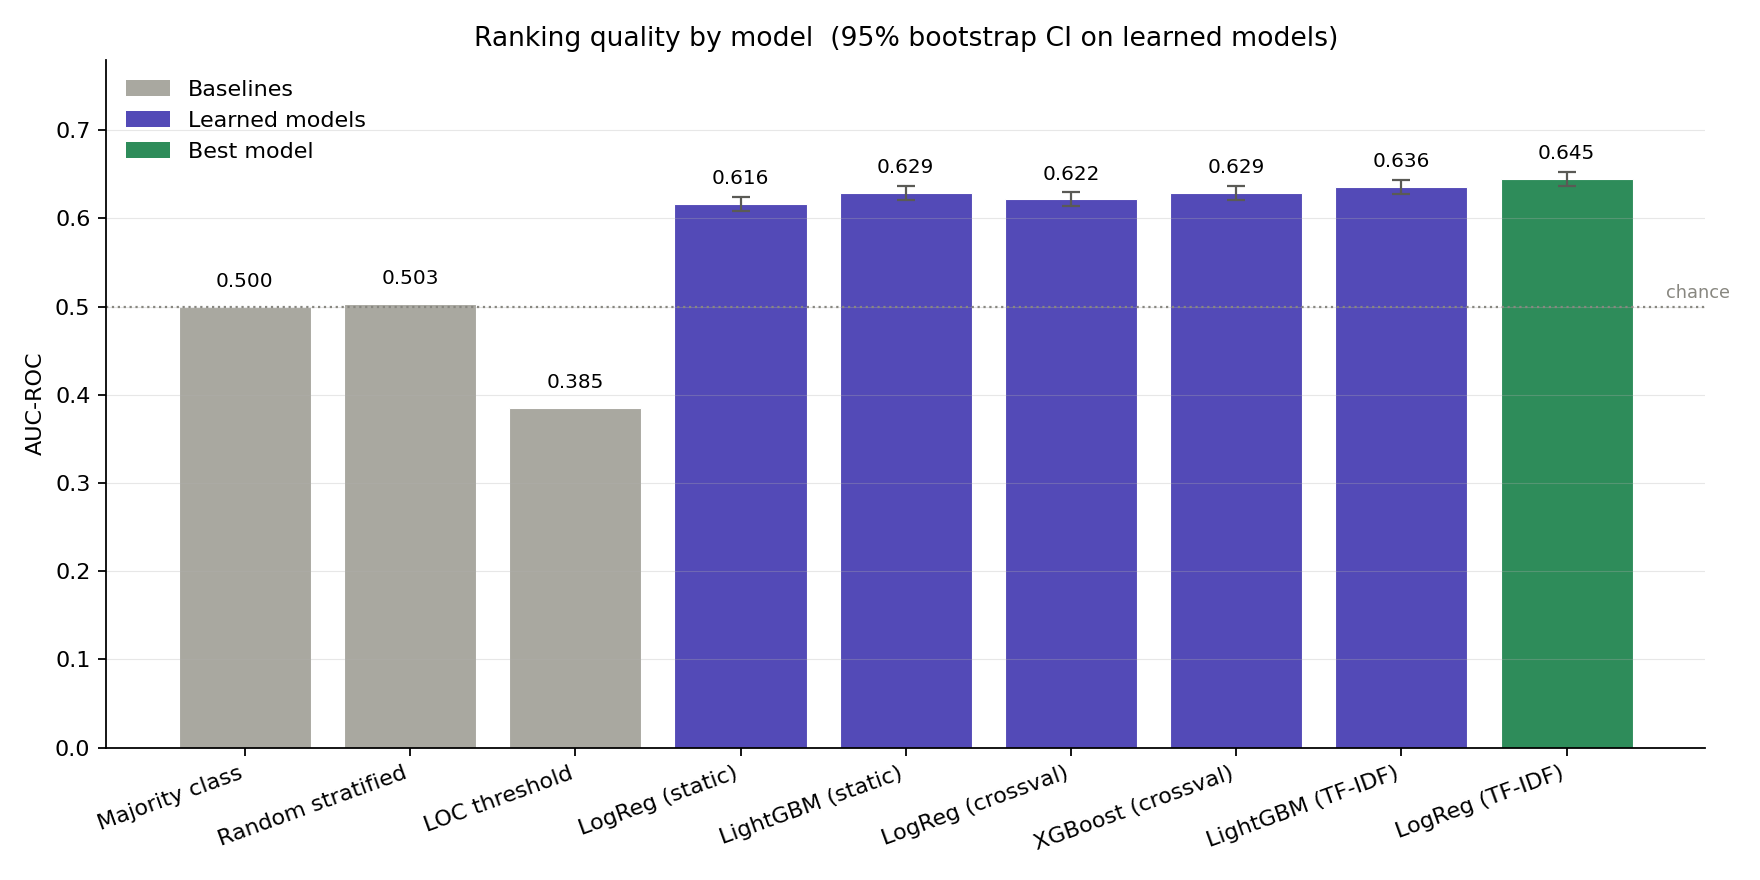
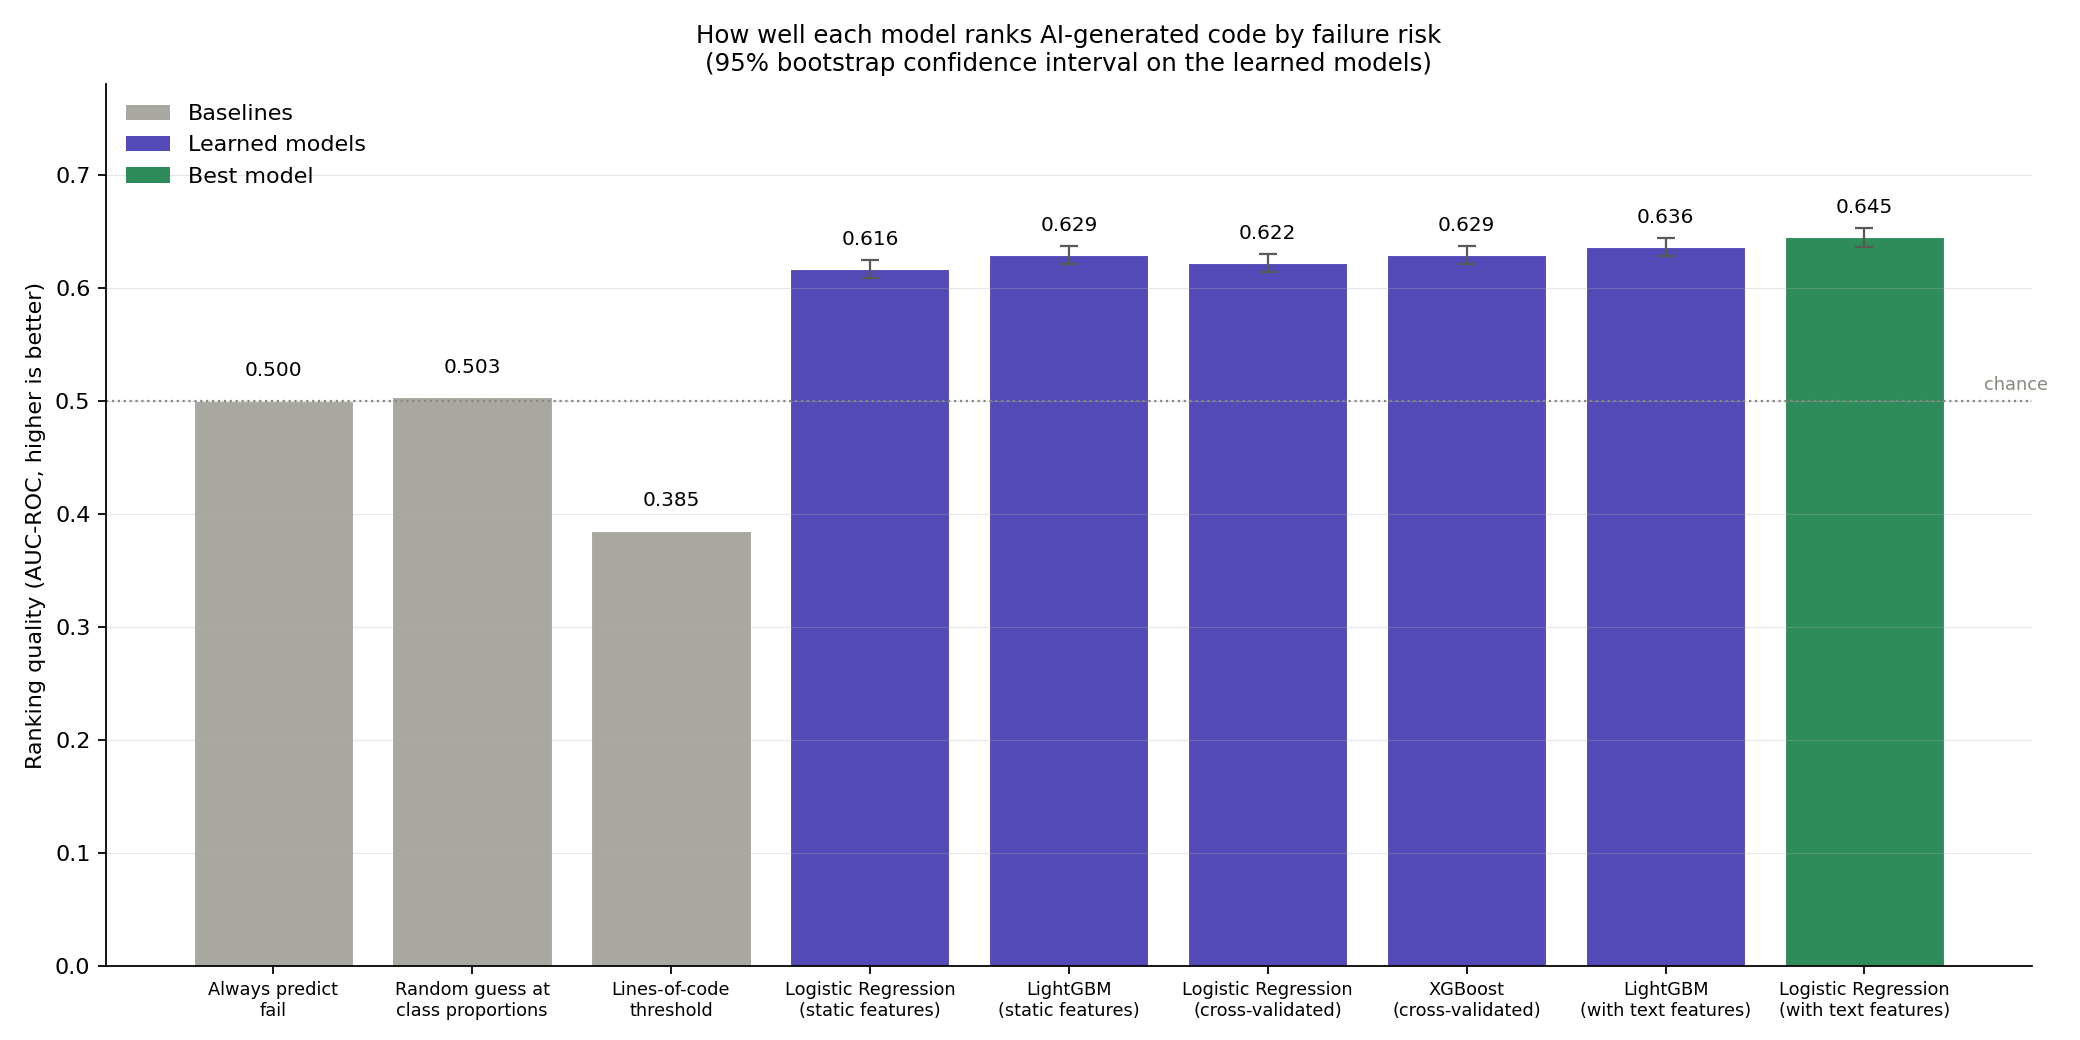
Readme updates and figures

diff --git a/models/build_report_figures.py b/models/build_report_figures.py
@@ -8,6 +8,8 @@ Produces:
                                                 code cross-project range as context.
   report_figures/fig6_shap_importance.png       Static features by mean |SHAP|,
                                                 colored by direction.
+  report_figures/table1_model_results.png       Table 1 rendered as a PNG with the
+                                                same spelled-out labels as Figure 2.
   report_figures/model_metrics_with_ci.csv      AUC and F1 with 95% bootstrap CIs
                                                 for the Table 1 update.
 
@@ -89,12 +91,12 @@ def load_models():
     t_xgb_cv = read_threshold(ROOT / "models/outputs_crossval/threshold_metrics.txt", "XGBoost (crossval)")
 
     rows = [
-        ("LogReg (static)",     "learned", base["label"].values,  base["logreg_prob"].values, (base["logreg_prob"].values >= t_lr_b).astype(int)),
-        ("LightGBM (static)",   "learned", base["label"].values,  base["lgbm_prob"].values,   (base["lgbm_prob"].values   >= t_lgb_b).astype(int)),
-        ("LogReg (crossval)",   "learned", cv["label"].values,    cv["logistic_regression_prob"].values, (cv["logistic_regression_prob"].values >= t_lr_cv).astype(int)),
-        ("XGBoost (crossval)",  "learned", cv["label"].values,    cv["xgboost_prob"].values,             (cv["xgboost_prob"].values             >= t_xgb_cv).astype(int)),
-        ("LightGBM (TF-IDF)",   "learned", tfidf["label"].values, tfidf["lgbm_prob"].values,  (tfidf["lgbm_prob"].values  >= t_lgb_t).astype(int)),
-        ("LogReg (TF-IDF)",     "best",    tfidf["label"].values, tfidf["logreg_prob"].values, (tfidf["logreg_prob"].values >= t_lr_t).astype(int)),
+        ("Logistic Regression\n(static features)",      "learned", base["label"].values,  base["logreg_prob"].values, (base["logreg_prob"].values >= t_lr_b).astype(int)),
+        ("LightGBM\n(static features)",                 "learned", base["label"].values,  base["lgbm_prob"].values,   (base["lgbm_prob"].values   >= t_lgb_b).astype(int)),
+        ("Logistic Regression\n(cross-validated)",      "learned", cv["label"].values,    cv["logistic_regression_prob"].values, (cv["logistic_regression_prob"].values >= t_lr_cv).astype(int)),
+        ("XGBoost\n(cross-validated)",                  "learned", cv["label"].values,    cv["xgboost_prob"].values,             (cv["xgboost_prob"].values             >= t_xgb_cv).astype(int)),
+        ("LightGBM\n(with text features)",              "learned", tfidf["label"].values, tfidf["lgbm_prob"].values,  (tfidf["lgbm_prob"].values  >= t_lgb_t).astype(int)),
+        ("Logistic Regression\n(with text features)",   "best",    tfidf["label"].values, tfidf["logreg_prob"].values, (tfidf["logreg_prob"].values >= t_lr_t).astype(int)),
     ]
     return rows
 
@@ -104,9 +106,9 @@ def load_models():
 def fig_model_comparison(rows, out_path):
     # baselines from metrics.txt are deterministic — point estimates only
     baseline_rows = [
-        ("Majority class", "baseline", 0.500),
-        ("Random stratified", "baseline", 0.503),
-        ("LOC threshold",  "baseline", 0.385),
+        ("Always predict\nfail",                   "baseline", 0.500),
+        ("Random guess at\nclass proportions",     "baseline", 0.503),
+        ("Lines-of-code\nthreshold",               "baseline", 0.385),
     ]
 
     learned = []
@@ -120,7 +122,7 @@ def fig_model_comparison(rows, out_path):
     his     = [None]*3 + [r[4] for r in learned]
     colors  = [GRAY]*3 + [GREEN if r[1] == "best" else PURPLE for r in learned]
 
-    fig, ax = plt.subplots(figsize=(11, 5.5))
+    fig, ax = plt.subplots(figsize=(13, 6.5))
     x = np.arange(len(labels))
     bars = ax.bar(x, means, color=colors, edgecolor="white", linewidth=0.5)
 
@@ -138,11 +140,12 @@ def fig_model_comparison(rows, out_path):
     ax.text(len(labels) - 0.4, 0.51, "chance", color="#888780", fontsize=8)
 
     ax.set_xticks(x)
-    ax.set_xticklabels(labels, rotation=20, ha="right")
+    ax.set_xticklabels(labels, rotation=0, ha="center", fontsize=8)
     ax.set_ylim(0, 0.78)
-    ax.set_ylabel("AUC-ROC")
-    ax.set_title("Ranking quality by model  (95% bootstrap CI on learned models)",
-                 fontweight="normal")
+    ax.set_ylabel("Ranking quality (AUC-ROC, higher is better)")
+    ax.set_title("How well each model ranks AI-generated code by failure risk\n"
+                 "(95% bootstrap confidence interval on the learned models)",
+                 fontweight="normal", fontsize=11)
     ax.grid(True, alpha=0.3, axis="y", linewidth=0.5)
     ax.spines["top"].set_visible(False)
     ax.spines["right"].set_visible(False)
@@ -161,28 +164,41 @@ def fig_model_comparison(rows, out_path):
 
 def fig_crossmodel_drops(out_path):
     df = pd.read_csv(ROOT / "models/outputs_crossmodel/crossmodel_results.csv")
-    df = df.sort_values("auc_drop", ascending=True).reset_index(drop=True)
+    df = df.sort_values("auc_drop", ascending=False).reset_index(drop=True)
+    df["full_pct"] = (df["in_dist_auc"] * 100).round(1)
+    df["loo_pct"]  = (df["ood_auc"]    * 100).round(1)
 
-    fig, ax = plt.subplots(figsize=(9, 4.5))
-    # reference range from Zou et al. (2025) cross-project on human code
-    ax.axvspan(0.05, 0.15, color="#F4D6CC", alpha=0.7, zorder=0)
-    ax.text(0.10, len(df) - 0.4, "Cross-project range on human code\n(Zou et al., 2025)",
-            ha="center", va="top", fontsize=9, color="#7A3318")
+    n = len(df)
+    fig, ax = plt.subplots(figsize=(10, 5.0))
+    bar_h = 0.36
+    y = np.arange(n)
 
-    bars = ax.barh(df["family"], df["auc_drop"], color=GREEN, height=0.6)
-    for i, v in enumerate(df["auc_drop"]):
-        ax.text(v + 0.002, i, f"{v:.3f}", va="center", fontsize=9)
+    ax.barh(y - bar_h/2, df["full_pct"], height=bar_h, color=DARKGRAY,
+            label="Trained with this AI family")
+    ax.barh(y + bar_h/2, df["loo_pct"],  height=bar_h, color=GREEN,
+            label="Trained without this AI family")
 
-    ax.axvline(0, color=DARKGRAY, linewidth=0.8)
-    ax.set_xlim(-0.005, 0.17)
-    ax.set_xlabel("Drop in ranking quality when family is held out of training")
-    ax.set_title("Cross-model generalization: every family loses less than 0.02",
-                 fontweight="normal")
+    for i, row in df.iterrows():
+        ax.text(row["full_pct"] - 0.4, i - bar_h/2, f"{row['full_pct']:.0f}",
+                va="center", ha="right", fontsize=10, color="white", fontweight="bold")
+        ax.text(row["loo_pct"]  - 0.4, i + bar_h/2, f"{row['loo_pct']:.0f}",
+                va="center", ha="right", fontsize=10, color="white", fontweight="bold")
+
+    ax.set_yticks(y)
+    ax.set_yticklabels(df["family"], fontsize=11)
+    ax.invert_yaxis()
+    ax.set_xlim(50, 70)
+    ax.set_xlabel("Pairs of (passing, failing) code ranked correctly, out of 100", fontsize=10)
+    ax.set_title("Removing an AI family from training barely changes accuracy",
+                 fontweight="normal", fontsize=12, loc="left")
     ax.grid(True, alpha=0.3, axis="x", linewidth=0.5)
     ax.spines["top"].set_visible(False)
     ax.spines["right"].set_visible(False)
+    ax.legend(loc="upper right", frameon=False, fontsize=10,
+              bbox_to_anchor=(1.0, 1.02), ncol=2)
+
     fig.tight_layout()
-    fig.savefig(out_path, dpi=160)
+    fig.savefig(out_path, dpi=160, bbox_inches="tight")
     plt.close(fig)
 
 
@@ -197,9 +213,9 @@ def fig_shap_importance(out_path):
         ax.text(v + 0.004, i, f"{v:.3f}", va="center", fontsize=8)
 
     ax.set_xlim(0, df["mean_abs_shap"].max() * 1.15)
-    ax.set_xlabel("Average contribution to a prediction (mean |SHAP|)")
-    ax.set_title("What patterns drive failure predictions",
-                 fontweight="normal")
+    ax.set_xlabel("Average contribution to a prediction (longer bar = pattern matters more)")
+    ax.set_title("Which patterns the model uses most when predicting failure risk",
+                 fontweight="normal", fontsize=11)
     ax.grid(True, alpha=0.3, axis="x", linewidth=0.5)
     ax.spines["top"].set_visible(False)
     ax.spines["right"].set_visible(False)
@@ -211,6 +227,93 @@ def fig_shap_importance(out_path):
 
     fig.tight_layout()
     fig.savefig(out_path, dpi=160)
+    plt.close(fig)
+
+
+# ----- table 1 png ------------------------------------------------------------
+
+def fig_table1(rows, out_path):
+    baselines = [
+        ("Always predict fail",                 "—",                     "0.500", "0.000", "—"),
+        ("Random guess at class proportions",   "—",                     "0.503", "0.413", "—"),
+        ("Lines-of-code threshold",             "Lines of code only",    "0.385", "0.526", "—"),
+    ]
+
+    thresholds = {
+        "Logistic Regression\n(static features)":      "0.36",
+        "LightGBM\n(static features)":                  "0.37",
+        "Logistic Regression\n(cross-validated)":       "0.37",
+        "XGBoost\n(cross-validated)":                   "0.29",
+        "LightGBM\n(with text features)":               "0.35",
+        "Logistic Regression\n(with text features)":    "0.39",
+    }
+    feature_text = {
+        "Logistic Regression\n(static features)":      "18 static",
+        "LightGBM\n(static features)":                  "18 static",
+        "Logistic Regression\n(cross-validated)":       "18 static",
+        "XGBoost\n(cross-validated)":                   "18 static",
+        "LightGBM\n(with text features)":               "18 static + 20K text",
+        "Logistic Regression\n(with text features)":    "18 static + 20K text",
+    }
+
+    learned = []
+    for name, grp, y, p, pred in rows:
+        a, alo, ahi = auc_ci(y, p)
+        f, flo, fhi = f1_ci(y, pred)
+        flat = name.replace("\n", " ")
+        learned.append((
+            flat,
+            feature_text[name],
+            f"{a:.3f} [{alo:.3f}, {ahi:.3f}]",
+            f"{f:.3f} [{flo:.3f}, {fhi:.3f}]",
+            thresholds[name],
+            grp == "best",
+        ))
+
+    headers = ["Model", "Features", "AUC-ROC", "F1 (tuned)", "Threshold"]
+    cells = []
+    row_colors = []
+    for b in baselines:
+        cells.append(list(b))
+        row_colors.append("#F2F1ED")
+    for r in learned:
+        cells.append(list(r[:5]))
+        row_colors.append("#E8F2EC" if r[5] else "white")
+
+    fig, ax = plt.subplots(figsize=(13, 5.0))
+    ax.axis("off")
+    tbl = ax.table(
+        cellText=cells,
+        colLabels=headers,
+        loc="center",
+        cellLoc="center",
+        colWidths=[0.34, 0.20, 0.20, 0.18, 0.10],
+    )
+    tbl.auto_set_font_size(False)
+    tbl.set_fontsize(10)
+    tbl.scale(1.0, 1.6)
+
+    n_cols = len(headers)
+    for j in range(n_cols):
+        c = tbl[(0, j)]
+        c.set_facecolor(PURPLE)
+        c.set_text_props(color="white", fontweight="bold")
+        c.set_edgecolor("white")
+
+    for i, color in enumerate(row_colors, start=1):
+        is_best = (i - 1) >= len(baselines) and learned[i - 1 - len(baselines)][5]
+        for j in range(n_cols):
+            c = tbl[(i, j)]
+            c.set_facecolor(color)
+            c.set_edgecolor("#D6D5CF")
+            if is_best:
+                c.set_text_props(fontweight="bold")
+            if j == 0:
+                c.set_text_props(ha="left", fontweight=c.get_text().get_fontweight())
+                c.PAD = 0.04
+
+    fig.tight_layout()
+    fig.savefig(out_path, dpi=200, bbox_inches="tight")
     plt.close(fig)
 
 
@@ -248,6 +351,7 @@ def main():
     fig_model_comparison(rows, OUT_FIG / "fig2_model_comparison_v2.png")
     fig_crossmodel_drops(OUT_FIG / "fig5_crossmodel_drops.png")
     fig_shap_importance(OUT_FIG / "fig6_shap_importance.png")
+    fig_table1(rows, OUT_FIG / "table1_model_results.png")
     print("written:", OUT_FIG)
 
 

diff --git a/README.md b/README.md
@@ -302,6 +302,43 @@ We ran SHAP on the deployed model to rank the 18 static features by their averag
 
 The top contributors are all classical software metrics — the same predictors decades of human-code SDP research have identified as the strongest bug signals. The features we designed specifically for AI failure modes contribute very little: hardcoded returns rank last at 0.00003, placeholder patterns at 0.0009, library coverage and missing libraries near 0.003. AI-generated code fails for the same structural reasons human code does, which reinforces the AUC-ceiling explanation: the classifier learns task difficulty through complexity proxies, regardless of who wrote the code.
 
+The same list works as a manual review checklist for teams that don't deploy the model: function length, branching depth, error handling, and length relative to other solutions for the same task.
+
+
+## Using the Score
+
+The model outputs a number between 0 and 1 for each AI-generated code sample. It is a ranking signal, not a calibrated probability — useful for sorting outputs by failure risk, less useful as a literal "P(fails) = 0.42" estimate.
+
+### Threshold
+
+The shipped threshold is **0.39**, picked on the validation set to maximize F1.
+
+| | Value |
+|---|---|
+| Precision (flagged outputs that actually fail) | 0.46 |
+| Recall (failures we catch) | 0.83 |
+| Base failure rate in the test set | ~0.59 |
+
+The flagged group fails at roughly 2x the base rate, and 83% of all failures land in it. Lowering the threshold flags more outputs (catches more failures, more false positives); raising it does the opposite. The right cutoff depends on your pipeline — log scores and outcomes for a week of normal use, plot review/test-writing load against catch rate at several candidate cutoffs, and pick the one that fits your capacity. `models/tune_threshold.py` reproduces the F1 sweep.
+
+### Three ways to use it
+
+| Use | What it looks like | When it fits |
+|---|---|---|
+| **Test-writing prioritization** *(primary)* | Write full test coverage for high-risk outputs first; lighter checks (lint, type-check, smoke tests) on the rest | Test-writing capacity is the bottleneck |
+| Reviewer routing | High-risk outputs go to senior reviewers; low-risk to junior reviewers or automated checks | Reviewer expertise is the bottleneck |
+| Automated retry | Outputs above a chosen cutoff are sent back to the AI assistant before reaching a human | You're willing to A/B-test that retries actually improve quality |
+
+We characterized the score itself, not these workflows. Automated retry assumes the AI produces a meaningfully better second answer — verify that on your own data before committing to it.
+
+### What it catches, what it misses
+
+Catches: long, deeply nested code; missing error handling; suspiciously short outputs; high cyclomatic complexity. The structural patterns classical defect prediction has used on human code for decades.
+
+Misses: clean-looking code that does the wrong thing — wrong API arguments, wrong return shape, missed edge cases. A low score means the structural risk patterns are absent, not that the code is correct. Teams whose dominant failure mode is semantic bugs in clean code will get less out of this than the headline 0.645 AUC suggests.
+
+The cross-model results above mean the score reads code structure rather than any one assistant's fingerprint, so swapping Copilot for Cursor (or any other LLM) does not require retraining.
+
 
 ## Team
 
